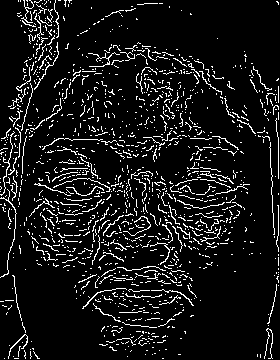
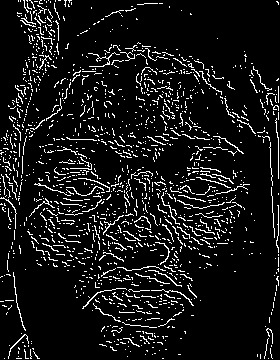
Replaced arctan with four-quadrant arctan

diff --git a/utils.py b/utils.py
@@ -85,7 +85,7 @@ def gradient_calc(image):
             elif dx == 0 and dy < 0:
                 phi[i,j] = -90
             else:
-                phi[i,j] = np.arctan(dy/dx)/np.pi*180
+                phi[i,j] = np.arctan2(dy,dx)/np.pi*180
                 
             # magnitude
             M[i-1, j-1] = (dx**2+dy**2)**0.5
